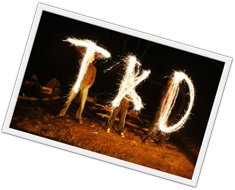
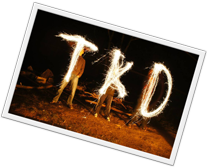
fix: hero image sizes + cache busting

diff --git a/src/dojang.php b/src/dojang.php
@@ -11,7 +11,7 @@
 	<meta property="og:url" content="http://rmittkd.com/dojang">
 	<meta property="og:site_name" content="RMIT ITF Taekwon-Do">
 	<?php include 'includes/head_css.php'; ?>
-	<link rel="stylesheet" href="css/modules-dojang.css?201504180">
+	<link rel="stylesheet" href="css/modules-dojang.css">
 	<?php include 'includes/head_js.php'; ?>
 </head>
 <body>
@@ -38,8 +38,8 @@
 							<div class="instr-profiles">
 								<section class="instr-profile row hidden" tabindex="-1" aria-hidden="true">
 									<div class="instr-images">
-										<img class="instr-belt lazy-loading" src="" data-src="images/instructors/belt-9.png?20150418" width="40" height="254" alt="">
-										<img class="instr-portrait lazy-loading" src="" data-src="images/instructors/robert-lai.png?20150418" width="255" height="254" alt="">
+										<img class="instr-belt lazy-loading" src="" data-src="images/instructors/belt-9.png" width="40" height="254" alt="">
+										<img class="instr-portrait lazy-loading" src="" data-src="images/instructors/robert-lai.png" width="255" height="254" alt="">
 									</div>
 									<div class="instr-caption">
 										<h2 class="instr-heading-sub section-heading">Instructors</h2>
@@ -49,8 +49,8 @@
 								</section>
 								<section class="instr-profile row" tabindex="-1" aria-hidden="false">
 									<div class="instr-images">
-										<img class="instr-belt" src="images/instructors/belt-7.png?20150418" width="40" height="254" alt="">
-										<img class="instr-portrait" src="images/instructors/jason-lai.png?20150418" width="500" height="254" alt="">
+										<img class="instr-belt" src="images/instructors/belt-7.png" width="40" height="254" alt="">
+										<img class="instr-portrait" src="images/instructors/jason-lai.png" width="500" height="254" alt="">
 									</div>
 									<div class="instr-caption">
 										<h2 class="instr-heading-sub section-heading">Instructors</h2>
@@ -60,8 +60,8 @@
 								</section>
 								<section class="instr-profile row hidden" tabindex="-1" aria-hidden="true">
 									<div class="instr-images">
-										<img class="instr-belt lazy-loading" src="" data-src="images/instructors/belt-4.png?20150418" width="40" height="254" alt="">
-										<img class="instr-portrait lazy-loading" src="" data-src="images/instructors/cassandra-white.png?20150418" width="319" height="254" alt="">
+										<img class="instr-belt lazy-loading" src="" data-src="images/instructors/belt-4.png" width="40" height="254" alt="">
+										<img class="instr-portrait lazy-loading" src="" data-src="images/instructors/cassandra-white.png" width="319" height="254" alt="">
 									</div>
 									<div class="instr-caption">
 										<h2 class="instr-heading-sub section-heading">Instructors</h2>
@@ -110,6 +110,6 @@
 </div>
 <?php include 'includes/footer.php'; ?>
 <?php include 'includes/foot_js.php'; ?>
-<script src="js/instructors.js?20150421"></script>
+<script src="js/instructors.js"></script>
 </body>
 </html>

diff --git a/src/tkd.php b/src/tkd.php
@@ -11,7 +11,7 @@
 	<meta property="og:url" content="http://rmittkd.com/tkd">
 	<meta property="og:site_name" content="RMIT ITF Taekwon-Do">
 	<?php include 'includes/head_css.php'; ?>
-	<link rel="stylesheet" href="css/modules-tkd.css?20150418">
+	<link rel="stylesheet" href="css/modules-tkd.css">
 	<?php include 'includes/head_js.php'; ?>
 </head>
 <body>
@@ -33,7 +33,7 @@
 				<div class="lay-main">
 					<section class="lai-section section row">
 						<h2 class="lai-heading section-heading">Lai Taekwon-Do</h2>
-						<img class="lai-image respimg-fit lazy-loading" src="" data-src="images/sm-lai-suffix.png" width="270" height="350" alt="">
+						<img class="lai-image respimg-fit lazy-loading" src="" data-src="images/hero/sm-lai-suffix.png" width="270" height="350" alt="">
 						<div class="lai-content section-content lh">
 							<p>The RMIT ITF Taekwon-Do Club is affiliated to <a class="link-blend" href="http://www.laitkd.com.au/" target="_blank">Lai Taekwon-Do</a>, under the guidance of <strong>Grand Master Robert Lai</strong> (9th degree) and his son Jason Lai (6th degree).</p>
 							<p>Grand Master Lai was born in Malaysia. He started Taekwon-Do in 1964 <strong>at the age of 19</strong>, after watching a demonstration by General Choi and his squad. The training hall was a small Buddhist temple so numbers were limited, and Grand Master Lai was one of 30 students chosen to begin training.</p>

diff --git a/src/index.php b/src/index.php
@@ -10,7 +10,7 @@
 	<meta property="og:image" content="http://rmittkd.com/images/og/logo-og.png">
 	<meta property="og:url" content="http://rmittkd.com/">
 	<?php include 'includes/head_css.php'; ?>
-	<link rel="stylesheet" href="css/modules-index.css?20150418">
+	<link rel="stylesheet" href="css/modules-index.css">
 	<?php include 'includes/head_js.php'; ?>
 </head>
 <body>
@@ -89,7 +89,7 @@
 							<h2 class="section-heading">Location</h2>
 							<div class="map-wrap inner">
 								<a class="map-link link-inv respimg-wrap" href="https://goo.gl/maps/RYwxl" target="_blank">
-									<img class="cal-img respimg-crop" src="images/map.png?20150121" width="473" height="149" alt="Map of 360 Swanston St, Melbourne, Australia">
+									<img class="cal-img respimg-crop" src="images/map.png" width="473" height="149" alt="Map of 360 Swanston St, Melbourne, Australia">
 									<span class="map-caption backdrop"><span>RMIT Building 8, Univeristy Function Room 08.02.08</span></span>
 								</a>
 							</div>
@@ -115,6 +115,6 @@
 </div>
 <?php include 'includes/footer.php'; ?>
 <?php include 'includes/foot_js.php'; ?>
-<script src="js/calendar.js?20150424"></script>
+<script src="js/calendar.js"></script>
 </body>
 </html>

diff --git a/src/contact.php b/src/contact.php
@@ -12,7 +12,7 @@
 	<meta property="og:url" content="http://rmittkd.com/contact">
 	<meta property="og:site_name" content="RMIT ITF Taekwon-Do">
 	<?php include 'includes/head_css.php'; ?>
-	<link rel="stylesheet" href="css/modules-contact.css?20150418">
+	<link rel="stylesheet" href="css/modules-contact.css">
 	<?php include 'includes/head_js.php'; ?>
 </head>
 <body>
@@ -92,6 +92,6 @@
 </div>
 <?php include 'includes/footer.php'; ?>
 <?php include 'includes/foot_js.php'; ?>
-<script src="js/contact.js?20150422"></script>
+<script src="js/contact.js"></script>
 </body>
 </html>

diff --git a/src/includes/head_css.php b/src/includes/head_css.php
@@ -2,5 +2,5 @@
 <link rel="shortcut icon" href="favicon.ico">
 <link rel="publisher" href="https://www.google.com/+RmittkdCHITF">
 <link rel="stylesheet" href="//cdnjs.cloudflare.com/ajax/libs/normalize/3.0.1/normalize.min.css">
-<link rel="stylesheet" href="css/base.css?20150424">
-<link rel="stylesheet" href="css/modules.css?20150424">
+<link rel="stylesheet" href="css/base.css">
+<link rel="stylesheet" href="css/modules.css">

diff --git a/src/admin/includes/head_css.php b/src/admin/includes/head_css.php
@@ -1,5 +1,5 @@
 <link rel="shortcut icon" href="/favicon.ico">
 <link rel="stylesheet" href="//cdnjs.cloudflare.com/ajax/libs/normalize/3.0.1/normalize.min.css">
-<link rel="stylesheet" href="/css/base.css?20150424">
-<link rel="stylesheet" href="/css/modules.css?20150424">
+<link rel="stylesheet" href="/css/base.css">
+<link rel="stylesheet" href="/css/modules.css">
 <link rel="stylesheet" href="/admin/css/admin.css">

diff --git a/src/social.php b/src/social.php
@@ -12,7 +12,7 @@
 	<meta property="og:url" content="http://rmittkd.com/social">
 	<meta property="og:site_name" content="RMIT ITF Taekwon-Do">
 	<?php include 'includes/head_css.php'; ?>
-	<link rel="stylesheet" href="css/modules-social.css?20150418">
+	<link rel="stylesheet" href="css/modules-social.css">
 	<?php include 'includes/head_js.php'; ?>
 </head>
 <body>

diff --git a/src/fees.php b/src/fees.php
@@ -11,7 +11,7 @@
 	<meta property="og:url" content="http://rmittkd.com/fees">
 	<meta property="og:site_name" content="RMIT ITF Taekwon-Do">
 	<?php include 'includes/head_css.php'; ?>
-	<link rel="stylesheet" href="css/modules-fees.css?20150418">
+	<link rel="stylesheet" href="css/modules-fees.css">
 	<?php include 'includes/head_js.php'; ?>
 </head>
 <body>

diff --git a/src/includes/foot_js.php b/src/includes/foot_js.php
@@ -1,2 +1,2 @@
 <script src="//ajax.googleapis.com/ajax/libs/jquery/1.10.2/jquery.min.js"></script>
-<script src="/js/core.js?20150424"></script>
+<script src="/js/core.js"></script>
